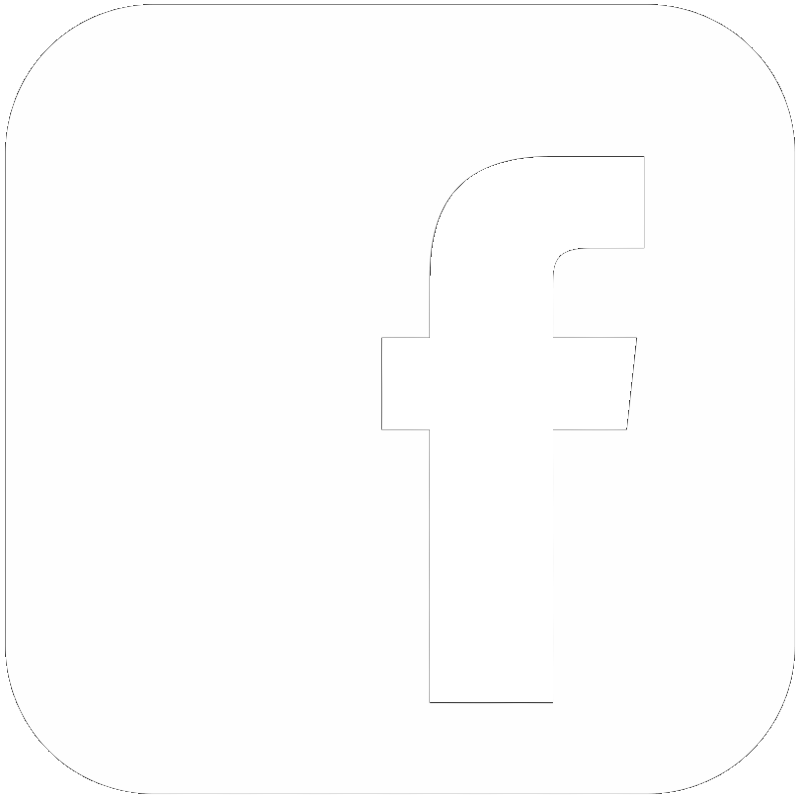
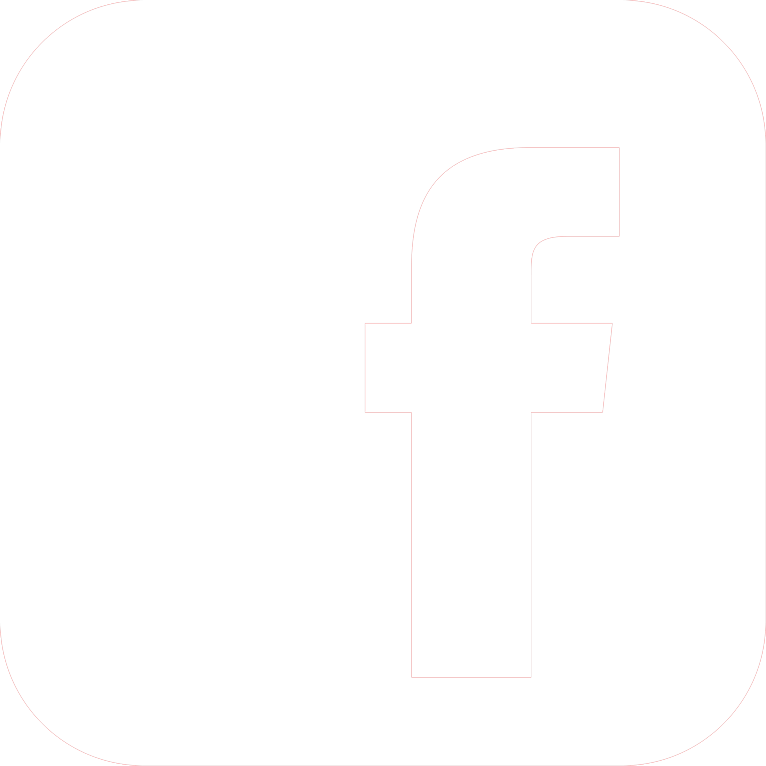
teste de api

diff --git a/index.html b/index.html
@@ -259,9 +259,19 @@
     </div>
     
     <footer>
-     
+      <div class="footer-icons">
+        <a href="https://web.whatsapp.com/"
+          ><img src="./img/icon1.png" id="rede" alt="" title="Whatsapp"
+        /></a>
+        <a href="https://www.facebook.com/"
+          ><img src="./img/icon2.png" id="rede" alt="" title="Facebook"
+        /></a>
+        <a href="https://www.instagram.com/"
+          ><img src="./img/icon3.png" id="rede" alt="" title="Instagram"
+        /></a>
+      </div>
       <div class="footer-containt">
-        <p id="d-autorais">© 2022 Crafted by Cabrum.</p>
+        <p id="d-autorais">© 2022 Desenvolvido pela Equipe NPJU.</p>
       </div>
     </footer>
 

diff --git a/style.css b/style.css
@@ -148,6 +148,13 @@ bottom: 0;text-align: center;padding: 20px 0;position: relative;}
   margin: 0px;
 }
 
+.footer-icons {
+  display: inline-block;
+  flex-direction: row;
+  justify-self: center;
+
+  padding-left: 20px;
+}
 
 #d-autorais {
   color: #fff;
@@ -156,6 +163,11 @@ bottom: 0;text-align: center;padding: 20px 0;position: relative;}
   font-size: 10px;
 
   padding-top: 0px;
+}
+
+#rede {
+  width: 1.5rem;
+  margin-inline: 0.5rem;
 }
 
 /* DataBase */
